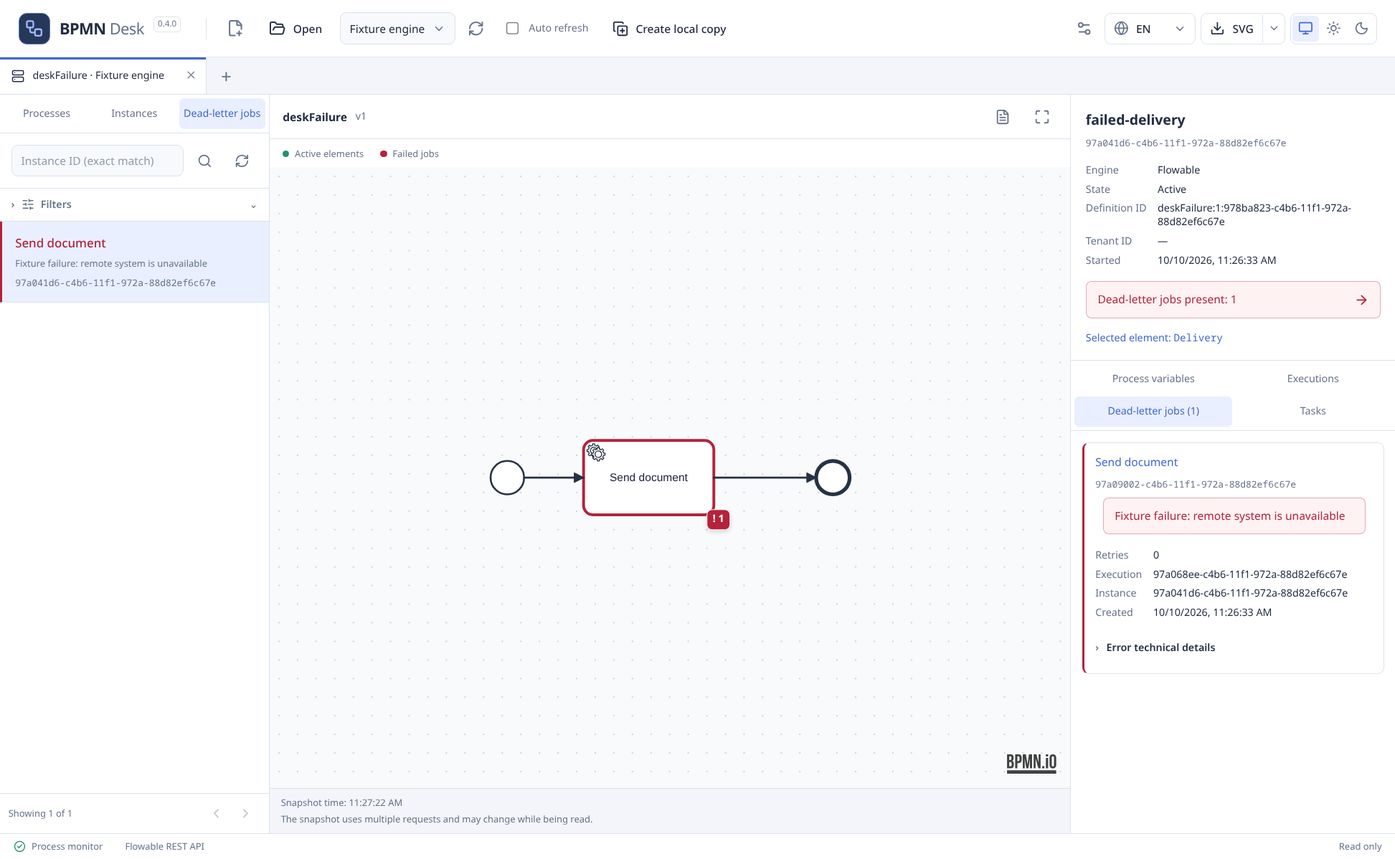
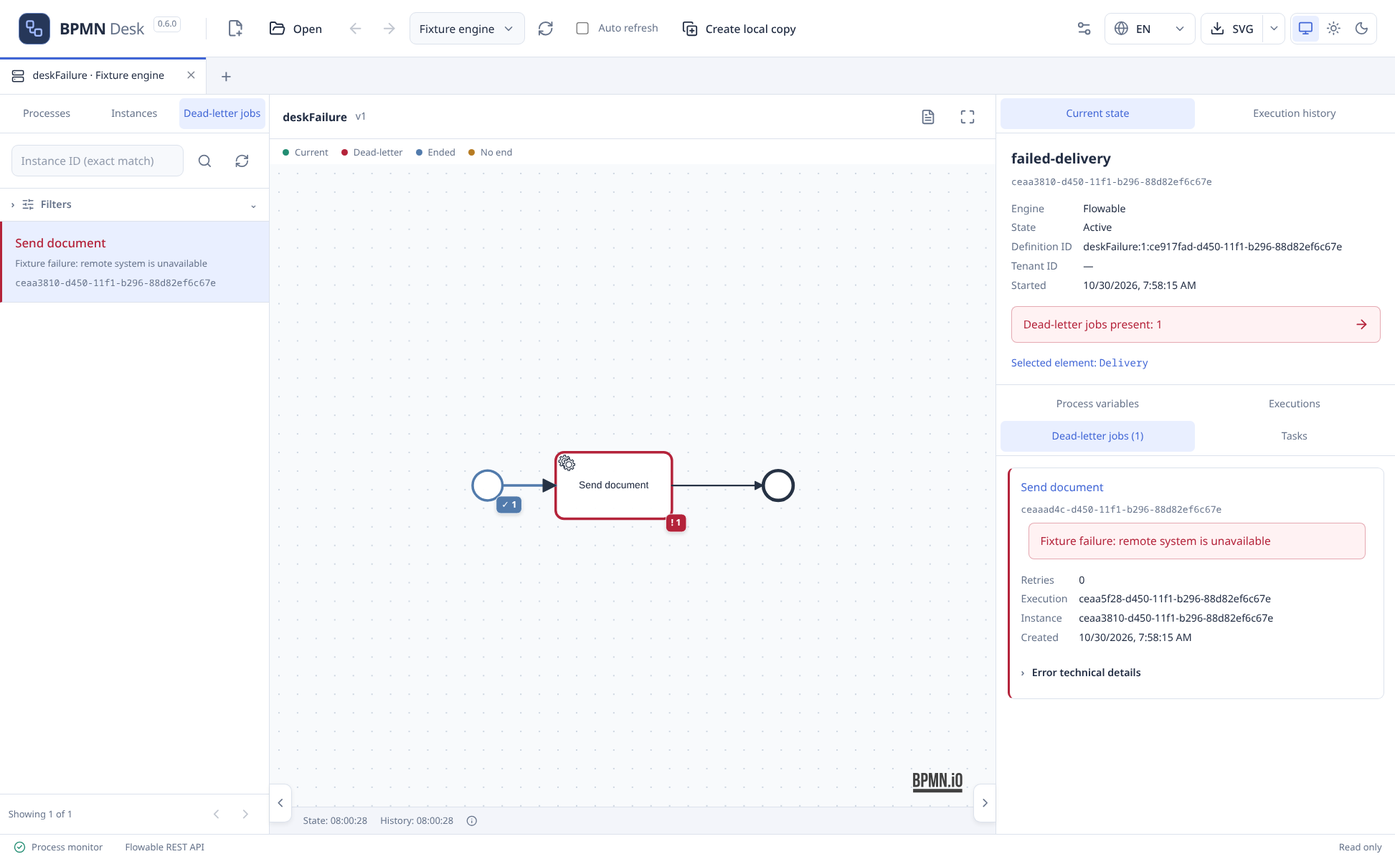
Prepare version 0.6.0 Flowable execution history release

diff --git a/docs/validation.md b/docs/validation.md
@@ -1,44 +1,26 @@
-# Проверка релиза 0.5.0
+# Проверка релиза 0.6.0
 
-Проверенный коммит: `0399be1d2a298cde1cb94b22c2027eab18db8a88`, тег `v0.5.0`.
+Кандидат 0.6.0 подготовлен из локально проверенных изменений монитора; предыдущий релиз сохранён в [протоколе 0.5.0](archive/validation-0.5.0.md). После локальных проверок основная ветка и тег должны пройти нативную матрицу Linux/Windows. Результаты CI и опубликованные артефакты будут добавлены после выпуска; до этого новые Windows-проверки не заявляются.
 
-[Релиз](https://github.com/michaelbrylevskii/bpmn-desk/releases/tag/v0.5.0) · [Проверка main](https://github.com/michaelbrylevskii/bpmn-desk/actions/runs/40506194978/attempts/2) · [Релизная матрица](https://github.com/michaelbrylevskii/bpmn-desk/actions/runs/40509035857)
+## Локальная проверка кандидата
 
-| Среда | Unit | E2E | Flowable runtime |
-| --- | --- | --- | --- |
-| Ubuntu 24.04 | 90 passed | 77 passed, включая AppImage | 15 passed |
-| Windows Server 2022 | 88 passed, 2 symlink skip | 75 passed, включая готовый EXE | 15 passed |
-
-Обе матрицы прошли strict TypeScript, ESLint, нативную сборку и официальные Flowable converter 7.2 / Camunda Model API 7.24.
-
-Первый Linux-job проверки main остановлен после длительного ожидания пакетов с зеркала Ubuntu. Повторный запуск на свежем runner прошёл без изменения исходников; успешный результат Windows сохранён. Релизная матрица прошла с первой попытки.
+Linux x86_64: strict TypeScript, ESLint и 111 unit-тестов; 92 E2E успешно, 18 ожидаемых пропусков; 33 Flowable runtime-теста. AppImage 0.6.0 собрана и запущена с sandbox в двух E2E; семь файлов out, версия, штатные примеры и лицензии совпадают с app.asar/ресурсами. Официальные Flowable converter 7.2 и Camunda Model API 7.24 проверили экспорты. GitHub Markdown API сохранил галерею обеих README и закрытый русский details релиза.
 
 ## Покрытие
 
-- Копирование между схемами: Flowable/Camunda 7, группы, связи, подпроцессы, граничные события, namespace и расширения; буфер после закрытия источника и независимые истории undo/redo.
-- Конфликты ID определений Error/Message/Signal/Escalation, повторная вставка с переиспользованием определения и отмена без удаления уже используемых определений.
-- Перестановка вкладок мышью и клавиатурой, сохранение активной вкладки, содержимого и истории команд.
-- Поток по умолчанию из свойств стрелки и узла: замена, снятие, undo/redo и исходящие связи без явных outgoing в XML.
-- В собранной AppImage отдельно проверены копирование между схемами, перетаскивание вкладок, независимый undo и стандартный default-поток.
-- Roundtrip, формы движков, XML, темы, локализация, экспорт, файлы/CLI/recent, recovery, уведомления и dirty state.
-- Реальный Flowable/H2: точная версия схемы, multi-instance, переменные, dead-letter, stacktrace, связи экземпляров, фильтры, авторизация и таймауты.
-
-## Артефакты
-
-AppImage, installer, portable и `SHA256SUMS` собраны релизным GitHub Actions. Все четыре файла скачаны: размеры и SHA-256 совпадают с manifest и GitHub asset.digest. Тег указывает на проверенный коммит, релиз опубликован как latest. Описание совпадает с генератором: английский текст и русский перевод в закрытом details.
-
-Опубликованная AppImage распакована: версия 0.5.0, все семь файлов скомпилированного out, примеры, provenance и лицензии совпадают с локальной сборкой проверенного исходника. Корень ASAR содержит только out, node_modules, package.json, LICENSE и THIRD_PARTY_NOTICES.md. Тесты, Java, кеши и пользовательские данные исключены из поставки.
-
-| Дистрибутив | Размер, байт | SHA-256 |
-| --- | ---: | --- |
[3 lines of base64/hex data omitted]
+- Поиск завершённых и продолжающихся экземпляров Flowable на точной развёрнутой версии BPMN; фильтры business key, дат и состояния.
+- Журнал и схема связаны в обе стороны; отдельные проходы, циклы, multi-instance, вложенные и вызванные процессы, исполнители и причины прекращения.
+- Сохранённые переменные с областями task/execution. Неполные выборки обозначаются; отказы API и поздние ответы не создают ложного полного/пустого состояния.
+- Общая схема истории и runtime с подтверждёнными зелёными позициями, отдельными ошибками источников и совмещённым экспортом SVG/PNG.
+- Карточки родителя/ребёнка, изолированные переходы назад/вперёд, подсказки назначения, команды боковых кнопок мыши.
+- Сворачиваемые панели, уведомление о новом выборе без раскрытия, компактная легенда/время и доступные с клавиатуры подсказки.
+- Настоящие wheel-события над бейджем: обе оси, Shift и Ctrl; логотип не перекрывает кнопки панелей. Обе темы, размеры окна 1500 и 1050 px.
+- Регрессия редактора: copy/paste между схемами, перестановка вкладок, независимый undo/redo, BPMN default, XML/расширения, экспорт, файлы, recovery, темы и локализация.
 
 ## Границы подтверждения
 
-Windows проверена автоматическим запуском приложения, без ручной приёмки installer/portable launcher и ассоциаций. macOS не проверялась. AppImage проверяется с распаковкой без FUSE.
+История зависит от сохранённых данных и прав Flowable. Снимки не транзакционны; отсутствие endTime не подтверждает активность, а окончание не доказывает успех. Сохранённые переменные — последние значения, не воспроизведение по времени. Переходы не достраиваются без записанных sequence flows.
 
-Flowable/H2 — независимый стенд с условными данными. Production SQL/count не оптимизирован; настройка таймаута позволяет дольше ждать ответа. Пользовательские серверы и корпоративная авторизация не входят в тесты. Model API не выполняет deployment, delegates или scripts.
+Flowable/H2 использует оригинальные MIT-схемы и условные данные, пользовательские материалы в CI и дистрибутив не входят. Системные команды боковых кнопок проверяются через настоящее окно Electron; физическое устройство не нажимается. Проверки Windows-приложения не заменяют ручную приёмку installer/portable и ассоциаций. Windows EXE не подписаны, macOS не поставляется.
 
-[Воспроизведение](development.md) · [Исторические протоколы](archive/README.md)
+[Дорелизная локальная проверка](validation-history.md) · [Воспроизведение](development.md) · [Архив](archive/README.md)

diff --git a/docs/archive/validation-0.5.0.md b/docs/archive/validation-0.5.0.md
@@ -1,0 +1,44 @@
+# Проверка релиза 0.5.0
+
+Проверенный коммит: `0399be1d2a298cde1cb94b22c2027eab18db8a88`, тег `v0.5.0`.
+
+[Релиз](https://github.com/michaelbrylevskii/bpmn-desk/releases/tag/v0.5.0) · [Проверка main](https://github.com/michaelbrylevskii/bpmn-desk/actions/runs/40506194978/attempts/2) · [Релизная матрица](https://github.com/michaelbrylevskii/bpmn-desk/actions/runs/40509035857)
+
+| Среда | Unit | E2E | Flowable runtime |
+| --- | --- | --- | --- |
+| Ubuntu 24.04 | 90 passed | 77 passed, включая AppImage | 15 passed |
+| Windows Server 2022 | 88 passed, 2 symlink skip | 75 passed, включая готовый EXE | 15 passed |
+
+Обе матрицы прошли strict TypeScript, ESLint, нативную сборку и официальные Flowable converter 7.2 / Camunda Model API 7.24.
+
+Первый Linux-job проверки main остановлен после длительного ожидания пакетов с зеркала Ubuntu. Повторный запуск на свежем runner прошёл без изменения исходников; успешный результат Windows сохранён. Релизная матрица прошла с первой попытки.
+
+## Покрытие
+
+- Копирование между схемами: Flowable/Camunda 7, группы, связи, подпроцессы, граничные события, namespace и расширения; буфер после закрытия источника и независимые истории undo/redo.
+- Конфликты ID определений Error/Message/Signal/Escalation, повторная вставка с переиспользованием определения и отмена без удаления уже используемых определений.
+- Перестановка вкладок мышью и клавиатурой, сохранение активной вкладки, содержимого и истории команд.
+- Поток по умолчанию из свойств стрелки и узла: замена, снятие, undo/redo и исходящие связи без явных outgoing в XML.
+- В собранной AppImage отдельно проверены копирование между схемами, перетаскивание вкладок, независимый undo и стандартный default-поток.
+- Roundtrip, формы движков, XML, темы, локализация, экспорт, файлы/CLI/recent, recovery, уведомления и dirty state.
+- Реальный Flowable/H2: точная версия схемы, multi-instance, переменные, dead-letter, stacktrace, связи экземпляров, фильтры, авторизация и таймауты.
+
+## Артефакты
+
+AppImage, installer, portable и `SHA256SUMS` собраны релизным GitHub Actions. Все четыре файла скачаны: размеры и SHA-256 совпадают с manifest и GitHub asset.digest. Тег указывает на проверенный коммит, релиз опубликован как latest. Описание совпадает с генератором: английский текст и русский перевод в закрытом details.
+
+Опубликованная AppImage распакована: версия 0.5.0, все семь файлов скомпилированного out, примеры, provenance и лицензии совпадают с локальной сборкой проверенного исходника. Корень ASAR содержит только out, node_modules, package.json, LICENSE и THIRD_PARTY_NOTICES.md. Тесты, Java, кеши и пользовательские данные исключены из поставки.
+
+| Дистрибутив | Размер, байт | SHA-256 |
+| --- | ---: | --- |
[3 lines of base64/hex data omitted]
+
+## Границы подтверждения
+
+Windows проверена автоматическим запуском приложения, без ручной приёмки installer/portable launcher и ассоциаций. macOS не проверялась. AppImage проверяется с распаковкой без FUSE.
+
+Flowable/H2 — независимый стенд с условными данными. Production SQL/count не оптимизирован; настройка таймаута позволяет дольше ждать ответа. Пользовательские серверы и корпоративная авторизация не входят в тесты. Model API не выполняет deployment, delegates или scripts.
+
+[Воспроизведение](../development.md) · [Исторические протоколы](README.md)

diff --git a/docs/releases/0.6.0.md b/docs/releases/0.6.0.md
@@ -1,0 +1,11 @@
+# BPMN Desk 0.6.0
+
+- **История выполнения Flowable с привязкой к схеме.** Поиск завершённых и продолжающихся экземпляров, отдельные проходы шагов, циклы, параллельные multi-instance и вызванные процессы на точной развёрнутой версии BPMN. Выбор записи журнала находит элемент схемы, выбор элемента фильтрует его проходы. Доступны время, исполнители, причины прекращения и сохранённые переменные с областями task/execution.
+- **Текущее состояние и история на одном холсте.** Схема совмещает зафиксированные проходы и подтверждённые runtime-позиции. Вкладки **Текущее состояние** и **История выполнения** справа переключают подробности, сохраняя масштаб и выбор на схеме. Runtime и история доступны независимо при отказе другого API; экспорт SVG/PNG включает совмещённые метки.
+- **Навигация между связанными процессами.** Карточки родителя и ребёнка показывают название схемы, business key/имя и ID экземпляра. Кнопки назад/вперёд в тулбаре монитора содержат подсказки назначения; поддержаны команды боковых кнопок мыши Linux и Windows. У каждого монитора своя история переходов.
+- **Больше места для схемы.** Обе панели независимо сворачиваются нижними язычками. Выбор другого элемента оставляет подробности скрытыми и мягко отмечает язычок как обновлённый. Легенда и время снимков занимают по строке; пояснения доступны в подсказках по наведению и фокусу.
+- **Исправления управления холстом.** Вертикальная/горизонтальная прокрутка и масштабирование колёсиком работают над бейджами. Логотип bpmn.io целиком виден рядом с язычком и не перекрывает его. Повторный выбор открытого dead-letter задания возвращает к подробностям ошибки.
+
+Для истории нужны сохранённые данные Flowable и доступ к API. Отсутствие времени окончания не подтверждает активность шага, а зафиксированное окончание не доказывает успех. Неполные результаты обозначаются явно; сохранённые переменные содержат последние записанные значения, а не значения на выбранном проходе. Маршрут подсвечивается только по записанным sequence flows. Навигация хранит до 100 адресов в каждом направлении в памяти каждого монитора.
+
+AppImage, Windows installer/portable и `SHA256SUMS` собирает и проверяет GitHub Actions. Windows EXE не подписаны; ручная приёмка установщика не подтверждена. macOS не поставляется.

diff --git a/.github/release-notes/0.6.0.md b/.github/release-notes/0.6.0.md
@@ -1,0 +1,11 @@
+# BPMN Desk 0.6.0
+
+- **Flowable execution history linked to the diagram.** Find finished or ongoing instances and inspect individual activity visits, loops, parallel multi-instance tasks and called processes on their exact deployed BPMN version. Select a journal entry to locate it on the diagram, or select an element to filter its visits. Inspect recorded times, assignees, termination reasons and saved variables with their task/execution scopes.
+- **Current state and history on one canvas.** The diagram combines recorded visits with confirmed runtime positions. Switch between **Current state** and **Execution history** in the right panel without losing diagram zoom or selection. Runtime and history remain independently available when the other API is unavailable; SVG/PNG exports include the combined markers.
+- **Navigate between related processes.** Parent and child cards show the process name, business key/name and instance ID. Monitor toolbar back/forward buttons offer destination previews and support mouse side-button commands on Linux and Windows. Each monitor has its own navigation history.
+- **More space for the diagram.** Collapse either panel using its bottom tab. Selecting another element keeps hidden details collapsed and gently marks the tab as updated. Legends and snapshot times occupy one row, with explanations in hover/keyboard tooltips.
+- **Canvas interaction fixes.** Vertical/horizontal scrolling and wheel zoom work over badges. The bpmn.io logo remains fully visible beside the panel tab and no longer overlaps it. Reopening a selected dead-letter job returns to its error details.
+
+History requires retained Flowable history and API access. A missing end time does not confirm an active step, and a recorded end does not establish success. Partial results are marked; saved variables contain their latest recorded values rather than values at a selected visit. Routes are highlighted only when sequence flows were recorded. Navigation retains up to 100 destinations per direction in memory per monitor.
+
+Linux AppImage, Windows installer/portable and `SHA256SUMS` are built and tested by GitHub Actions. Windows executables are unsigned; manual installer acceptance is not confirmed. macOS is not available.

diff --git a/README.ru.md b/README.ru.md
@@ -15,9 +15,10 @@ Linux и Windows · локальные файлы · открытый исход
 
 <table>
 <tr>
-<td width="33%"><a href="docs/images/start.png"><img src="docs/images/start.png" alt="Стартовая страница" width="100%"></a><br><sub>Стартовая страница</sub></td>
-<td width="33%"><a href="docs/images/camunda.png"><img src="docs/images/camunda.png" alt="Свойства Camunda 7" width="100%"></a><br><sub>Camunda 7</sub></td>
-<td width="33%"><a href="docs/images/monitor.png"><img src="docs/images/monitor.png" alt="Монитор Flowable и dead-letter" width="100%"></a><br><sub>Монитор Flowable</sub></td>
+<td width="25%"><a href="docs/images/start.png"><img src="docs/images/start.png" alt="Стартовая страница" width="100%"></a><br><sub>Стартовая страница</sub></td>
+<td width="25%"><a href="docs/images/camunda.png"><img src="docs/images/camunda.png" alt="Свойства Camunda 7" width="100%"></a><br><sub>Camunda 7</sub></td>
+<td width="25%"><a href="docs/images/monitor.png"><img src="docs/images/monitor.png" alt="Монитор Flowable и dead-letter" width="100%"></a><br><sub>Монитор Flowable</sub></td>
+<td width="25%"><a href="docs/images/history.png"><img src="docs/images/history.png" alt="История Flowable с привязкой к развёрнутой схеме" width="100%"></a><br><sub>История выполнения</sub></td>
 </tr>
 </table>
 
@@ -55,7 +56,7 @@ Linux и Windows · локальные файлы · открытый исход
 
 ```bash
 chmod +x BPMN-Desk-*.AppImage
-./BPMN-Desk-0.5.0-x86_64.AppImage
+./BPMN-Desk-0.6.0-x86_64.AppImage
 ```
 
 Без FUSE: `--appimage-extract-and-run` первым аргументом. Windows EXE не подписаны; macOS пока не поставляется.

diff --git a/README.md b/README.md
@@ -15,9 +15,10 @@ Linux and Windows · local files · open source
 
 <table>
 <tr>
-<td width="33%"><a href="docs/images/start.png"><img src="docs/images/start.png" alt="Start page" width="100%"></a><br><sub>Start page</sub></td>
-<td width="33%"><a href="docs/images/camunda.png"><img src="docs/images/camunda.png" alt="Camunda 7 properties" width="100%"></a><br><sub>Camunda 7</sub></td>
-<td width="33%"><a href="docs/images/monitor.png"><img src="docs/images/monitor.png" alt="Flowable monitor and dead-letter jobs" width="100%"></a><br><sub>Flowable monitor</sub></td>
+<td width="25%"><a href="docs/images/start.png"><img src="docs/images/start.png" alt="Start page" width="100%"></a><br><sub>Start page</sub></td>
+<td width="25%"><a href="docs/images/camunda.png"><img src="docs/images/camunda.png" alt="Camunda 7 properties" width="100%"></a><br><sub>Camunda 7</sub></td>
+<td width="25%"><a href="docs/images/monitor.png"><img src="docs/images/monitor.png" alt="Flowable monitor and dead-letter jobs" width="100%"></a><br><sub>Flowable monitor</sub></td>
+<td width="25%"><a href="docs/images/history.png"><img src="docs/images/history.png" alt="Flowable execution history linked to its deployed diagram" width="100%"></a><br><sub>Execution history</sub></td>
 </tr>
 </table>
 
@@ -55,7 +56,7 @@ The [latest release](https://github.com/michaelbrylevskii/bpmn-desk/releases/lat
 
 ```bash
 chmod +x BPMN-Desk-*.AppImage
-./BPMN-Desk-0.5.0-x86_64.AppImage
+./BPMN-Desk-0.6.0-x86_64.AppImage
 ```
 
 Without FUSE, use `--appimage-extract-and-run` as the first argument. Windows executables are unsigned; macOS is not available yet.

diff --git a/docs/README.md b/docs/README.md
@@ -13,7 +13,7 @@
 | [Локальные пакеты](local-schema-packs.md) | Дополнительные пользовательские схемы вне Git |
 | [Публикация](publication.md) | Версия, тег, двуязычные release notes и артефакты |
 | [Проверка релиза](validation.md) | Подтверждённые результаты и их границы |
-| [Локальная проверка истории](validation-history.md) | История Flowable: автоматические проверки и сценарий ручной проверки без релиза |
+| [Дорелизная проверка истории](validation-history.md) | История Flowable: локальный протокол подготовки 0.6.0 и сценарий ручной проверки |
 | [Лицензии](third-party.md) | Сторонние компоненты и материалы |
 
 [ADR](adr/README.md) — журнал архитектурных решений. [Архив](archive/README.md) — протоколы предыдущих проверок.

diff --git a/docs/validation-history.md b/docs/validation-history.md
@@ -1,5 +1,7 @@
 # Локальная проверка истории и общего монитора Flowable
 
+Исторический протокол подготовки 0.6.0 до публикации. Указания об отсутствии push/тега/релиза ниже относятся к моменту локальной проверки; актуальный опубликованный релиз описан в [validation.md](validation.md).
+
 Дата: 2026-10-30. Проверяемый код: `6ba2f9b012773e69b21be33c10e9ea413266aa05`.
 
 Доработка подготовлена для ручной проверки. Все коммиты локальные; push, тег и релиз не выполнялись. Версия пакета осталась `0.5.0`; локальный AppImage с этим номером содержит новые изменения и отличается от опубликованного артефакта. [Протокол опубликованного релиза](validation.md) остаётся отдельным документом.

diff --git a/docs/archive/README.md b/docs/archive/README.md
@@ -6,6 +6,7 @@
 - [Релиз 0.3.0](validation-0.3.0.md)
 - [Релиз 0.4.0](validation-0.4.0.md)
 - [Релиз 0.4.1](validation-0.4.1.md)
+- [Релиз 0.5.0](validation-0.5.0.md)
 - [Разработка монитора Flowable](validation-runtime.md)
 
 [Актуальный отчёт](../validation.md) · [Документация](../README.md)
